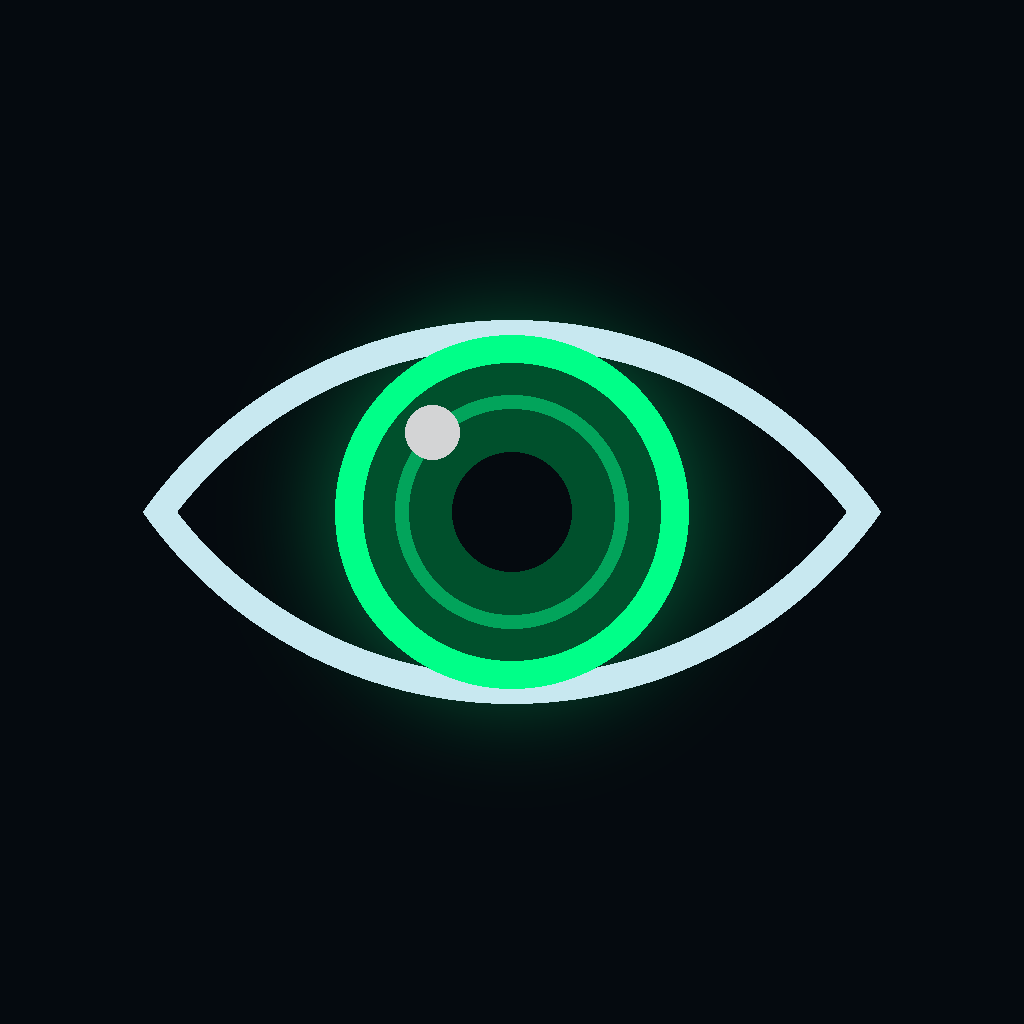
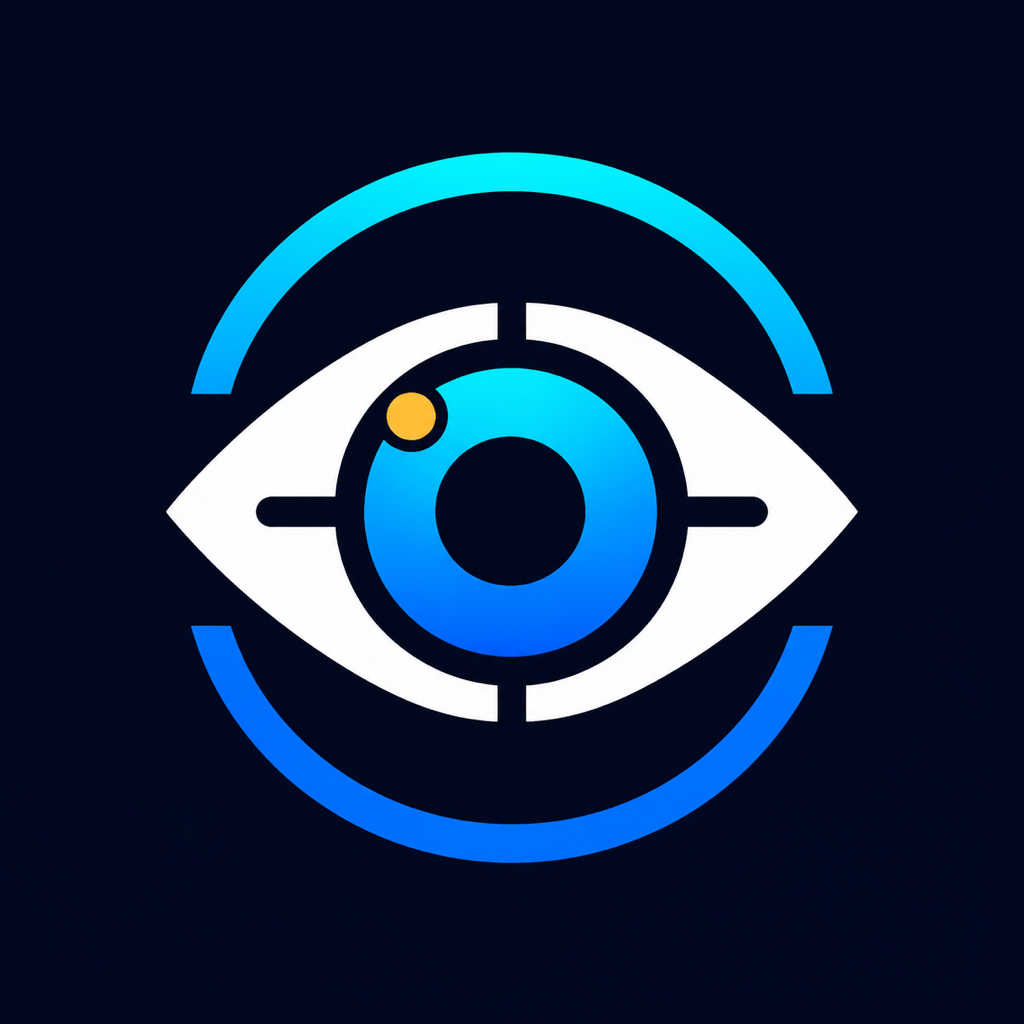
Fix monitor fault alerts and refresh branding (#74)
Remove the duplicate sensor-fault modal, keep the warning below navigation, distinguish camera startup from active stalls, and unify native and web branding assets.

Changed region(s): [[0.125, 0.125, 0.875, 0.8438]]

diff --git a/native-app/app/monitor.tsx b/native-app/app/monitor.tsx
@@ -1,6 +1,6 @@
 import React, { useState, useRef, useCallback, useEffect } from 'react';
 import {
-  View, Text, StyleSheet, TouchableOpacity, SafeAreaView, Linking, Alert,
+  View, Text, StyleSheet, TouchableOpacity, SafeAreaView, Linking,
 } from 'react-native';
 import { useRouter } from 'expo-router';
 import {
@@ -58,7 +58,8 @@ const FACE_DETECTOR_OPTIONS: FrameFaceDetectionOptions = {
 };
 
 const CLOSED_CONFIRM_MS = 1_200;
-const SENSOR_STALL_MS = 3_000;
+const SENSOR_STARTUP_GRACE_MS = 10_000;
+const SENSOR_STALL_MS = 5_000;
 
 export default function MonitorScreen() {
   useKeepAwake(); // screen never dims while monitoring
@@ -86,6 +87,7 @@ export default function MonitorScreen() {
   const cloudSessionRef = useRef<Promise<string | null> | null>(null);
   const cloudEventQueueRef = useRef<Promise<void>>(Promise.resolve());
   const lastSampleAtRef = useRef(0);
+  const hasCameraSampleRef = useRef(false);
   const headNodDetectorRef = useRef(new HeadNodDetector());
   const headNodObservationsRef = useRef(0);
   const monitoringActiveRef = useRef(false);
@@ -171,7 +173,6 @@ export default function MonitorScreen() {
       headphoneMotionSamplesRef.current = 0;
       headphoneMotionStatusRef.current = 'starting';
       monitoringActiveRef.current = true;
-      lastSampleAtRef.current = Date.now();
       setSensorFault(null);
       sessionSensitivityRef.current = sensitivity;
       cloudEventQueueRef.current = Promise.resolve();
@@ -181,6 +182,8 @@ export default function MonitorScreen() {
       }
       cloudSessionRef.current = beginCloudSession();
       setAlertCount(0);
+      hasCameraSampleRef.current = false;
+      lastSampleAtRef.current = Date.now();
       setIsRunning(true);
     } finally {
       startingRef.current = false;
@@ -264,10 +267,10 @@ export default function MonitorScreen() {
   useEffect(() => {
     if (!isRunning) return;
     const watchdog = setInterval(() => {
-      if (stoppingRef.current || Date.now() - lastSampleAtRef.current <= SENSOR_STALL_MS) return;
+      const timeoutMs = hasCameraSampleRef.current ? SENSOR_STALL_MS : SENSOR_STARTUP_GRACE_MS;
+      if (stoppingRef.current || Date.now() - lastSampleAtRef.current <= timeoutMs) return;
       const message = 'Monitoring stopped: camera analysis stalled. Pull over safely before checking the phone or restarting.';
       setSensorFault(message);
-      Alert.alert('Monitoring stopped', message);
       void handleStop();
     }, 500);
     return () => clearInterval(watchdog);
@@ -286,6 +289,7 @@ export default function MonitorScreen() {
     yawAngle: number,
     rollAngle: number,
   ) => {
+    hasCameraSampleRef.current = true;
     lastSampleAtRef.current = Date.now();
     const now = Date.now();
     const headNodResult = headNodDetectorRef.current.update({
@@ -503,7 +507,7 @@ const s = StyleSheet.create({
   pill: { flexDirection: 'row', alignItems: 'center', gap: 7, backgroundColor: 'rgba(15,30,46,0.85)', paddingHorizontal: 14, paddingVertical: 7, borderRadius: 999, borderWidth: 1, borderColor: '#1a3a4a' },
   dot: { width: 8, height: 8, borderRadius: 4 },
   pillTxt: { color: '#c8e8f0', fontSize: 12, fontWeight: '800', letterSpacing: 0.8 },
-  sensorFault: { position: 'absolute', top: 88, left: 16, right: 16, zIndex: 4, backgroundColor: 'rgba(69,10,10,0.96)', borderWidth: 1.5, borderColor: '#ef4444', borderRadius: 14, padding: 14 },
+  sensorFault: { position: 'absolute', top: 132, left: 16, right: 16, zIndex: 4, backgroundColor: 'rgba(69,10,10,0.96)', borderWidth: 1.5, borderColor: '#ef4444', borderRadius: 14, padding: 14 },
   sensorFaultTitle: { color: '#fecaca', fontSize: 14, fontWeight: '900', letterSpacing: 0.6 },
   sensorFaultText: { color: '#fff1f2', fontSize: 12, lineHeight: 18, marginTop: 4 },
   metrics: { position: 'absolute', left: 14, right: 14, bottom: 200, flexDirection: 'row', gap: 6, justifyContent: 'center' },

diff --git a/sw.js b/sw.js
@@ -1,4 +1,4 @@
-const CACHE = 'occulert-v21';
+const CACHE = 'occulert-v22';
 const STATIC_ASSETS = [
   '/',
   '/index.html',
